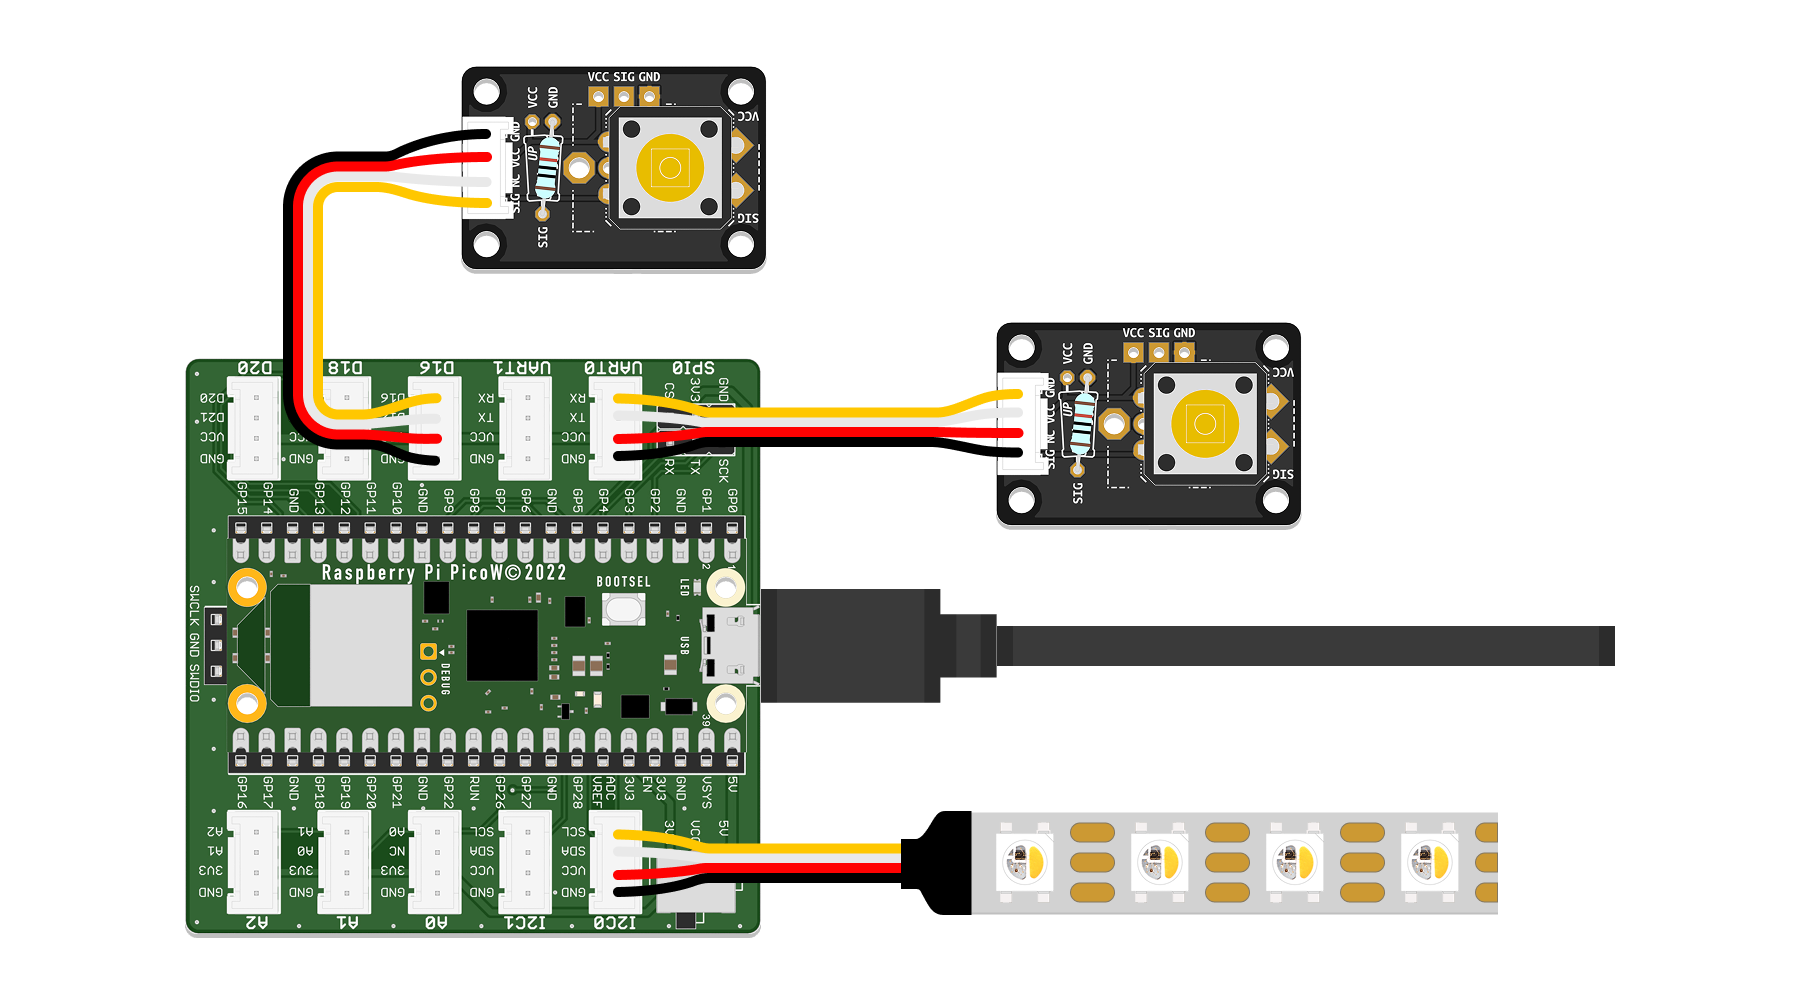
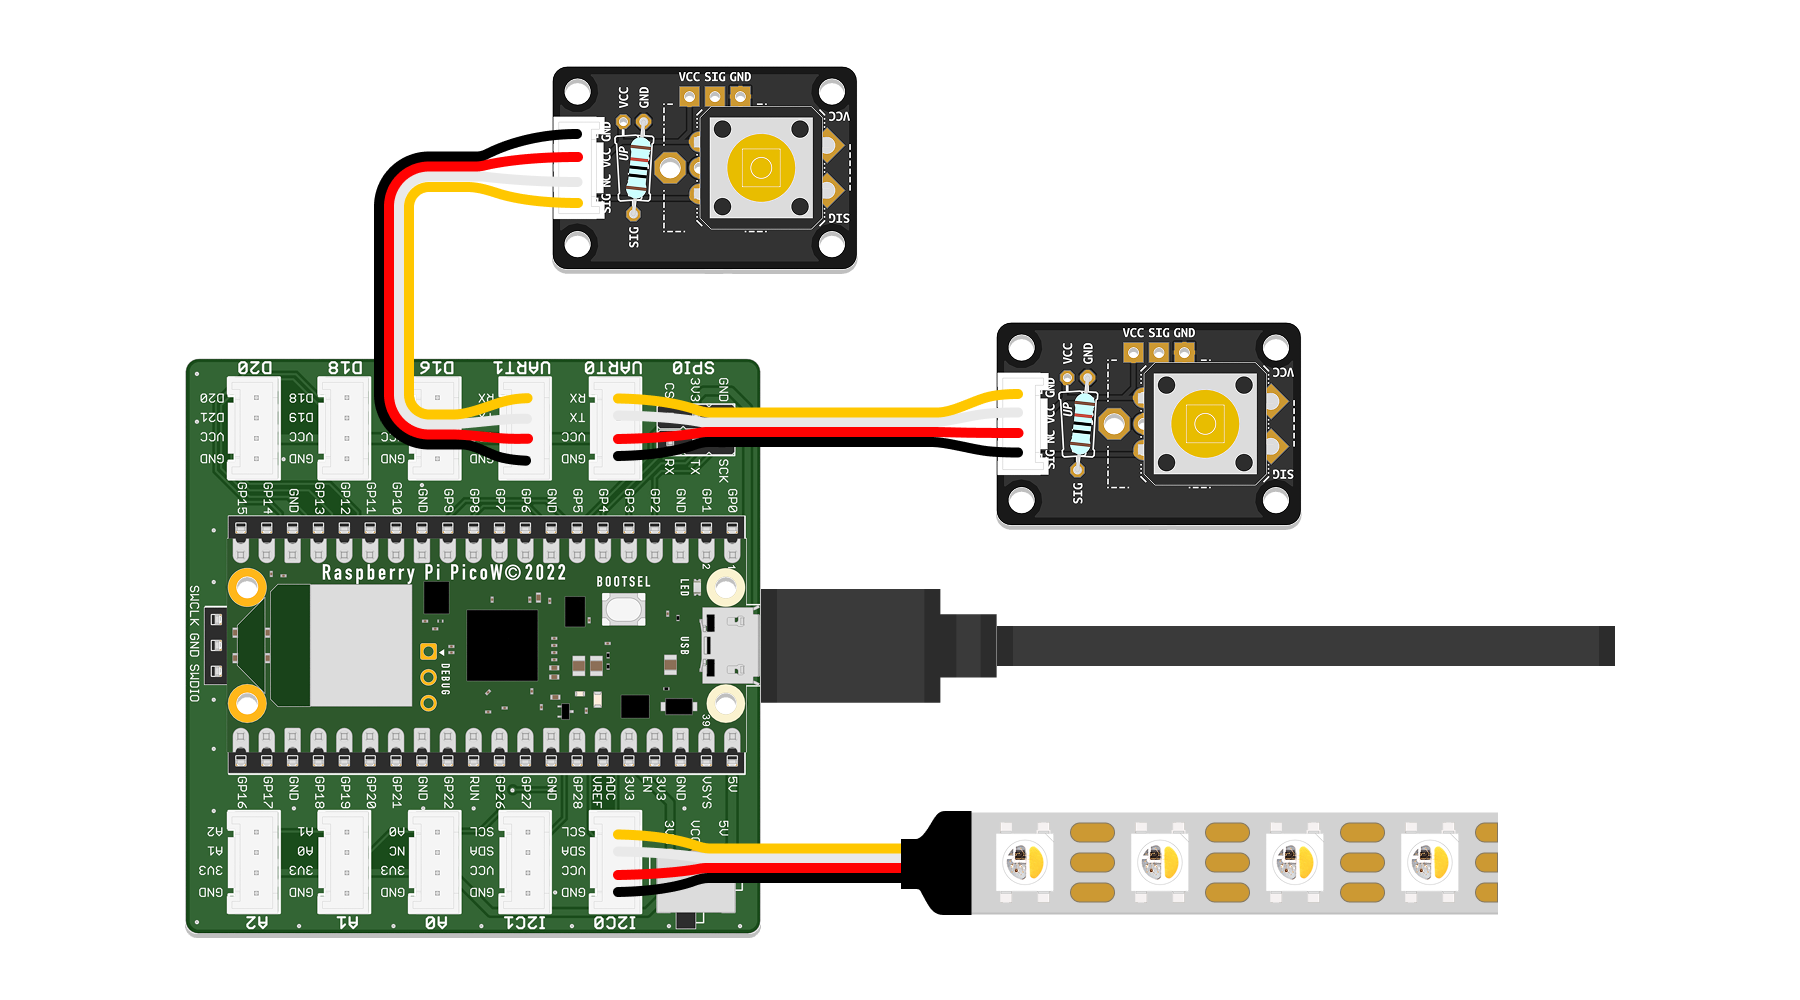
update pin definitions in example code to match new wiring diagram

Changed region(s): [[0.1556, 0.062, 0.4978, 0.465], [0.28, 0.372, 0.3111, 0.403]]

diff --git a/docs/part 2 get creative/idea-1.md b/docs/part 2 get creative/idea-1.md
@@ -86,12 +86,12 @@ import time
 # --- Variables
 
 # Set up the PIR motion sensor as INPUT (detects movement)
-pir_pin = board.GP2
+pir_pin = board.GP1
 pir_sensor = digitalio.DigitalInOut(pir_pin)
 pir_sensor.direction = digitalio.Direction.INPUT
 
 # Set up the buzzer as OUTPUT (makes sound)
-buzzer_pin = board.GP15
+buzzer_pin = board.GP18
 buzzer = digitalio.DigitalInOut(buzzer_pin)
 buzzer.direction = digitalio.Direction.OUTPUT
 

diff --git a/docs/part 2 get creative/idea-2.md b/docs/part 2 get creative/idea-2.md
@@ -90,7 +90,7 @@ blue_button = digitalio.DigitalInOut(board.GP5)
 blue_button.direction = digitalio.Direction.INPUT
 
 # Initialize NeoPixel RGB LED strip on GP16 with 6 LEDs
-led_pin = board.GP16
+led_pin = board.GP9
 num_leds = 6
 leds = neopixel.NeoPixel(led_pin, num_leds, auto_write=False, pixel_order=neopixel.GRB)
 
